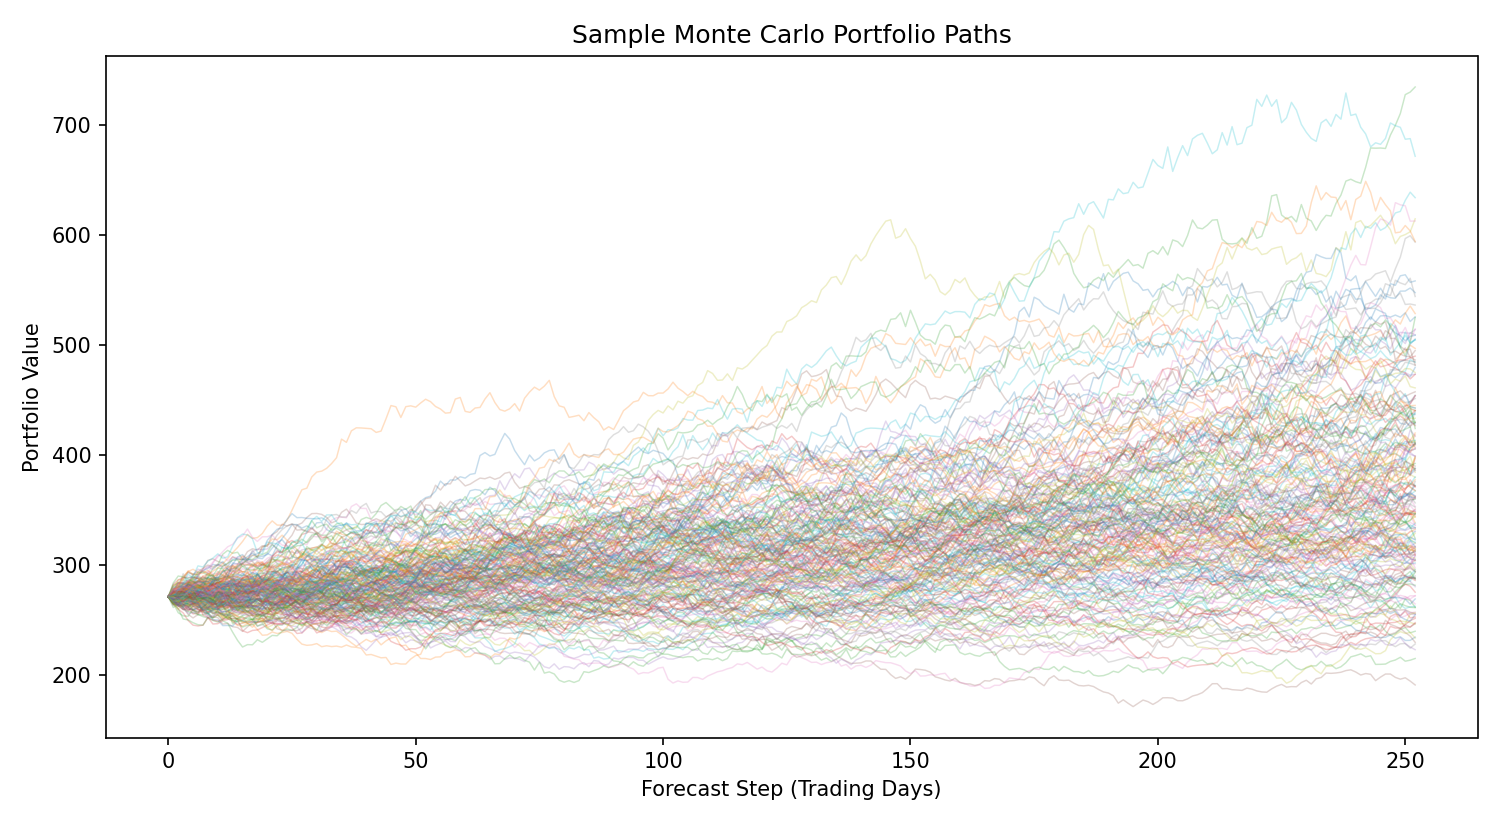
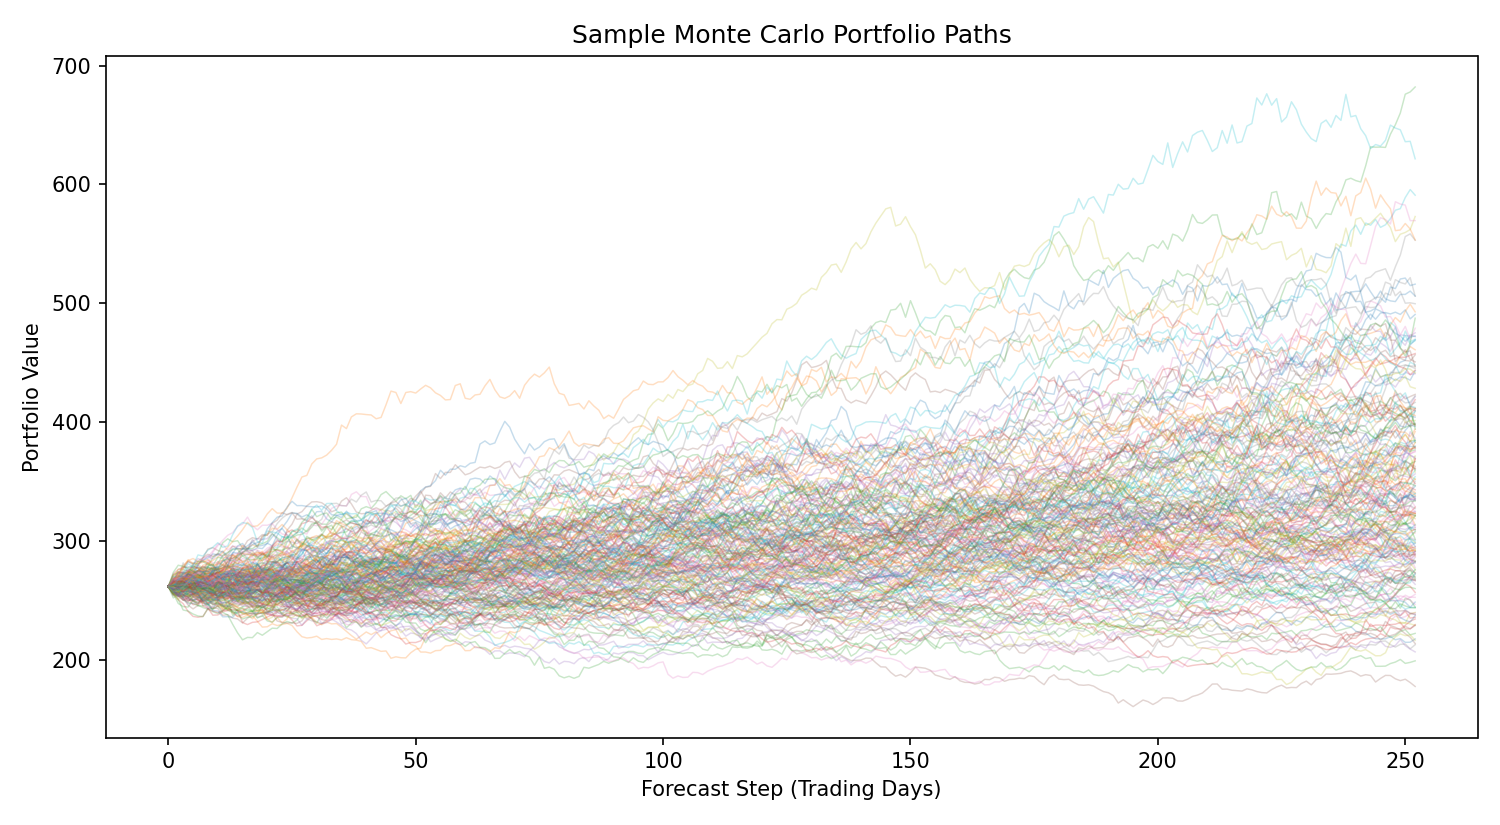
Adding updated metrics from new enterprise script

diff --git a/case-studies/monte-carlo-models/stock-market-prediction/results/summary.md b/case-studies/monte-carlo-models/stock-market-prediction/results/summary.md
@@ -3,20 +3,20 @@
 ## Run Context
 - Tickers: AAPL, MSFT, NVDA, AMZN, GOOGL
 - Lookback period: 3y
-- Historical window: 2023-03-07 to 2026-03-06
+- Historical window: 2023-03-21 to 2026-03-20
 - Forecast horizon: 252 trading days
 - Simulation paths: 5000
-- Data source: cache
+- Data source: yfinance
 
 ## Portfolio Forecast
-- Starting portfolio value: 271.19
-- Expected terminal value: 375.68
-- Median terminal value: 363.45
-- 5th percentile terminal value: 247.97
-- 95th percentile terminal value: 542.92
-- Expected return: 38.53%
-- Probability of loss: 10.90%
-- Annualized portfolio volatility: 0.2391
+- Starting portfolio value: 261.83
+- Expected terminal value: 349.38
+- Median terminal value: 338.24
+- 5th percentile terminal value: 230.91
+- 95th percentile terminal value: 503.68
+- Expected return: 33.44%
+- Probability of loss: 13.60%
+- Annualized portfolio volatility: 0.2377
 
 ## Method
 This case study uses multivariate **Geometric Brownian Motion (GBM)** to simulate future asset prices. GBM models the continuously compounded return of each asset as a drift term plus a stochastic shock, while the covariance matrix preserves cross-asset correlation.
